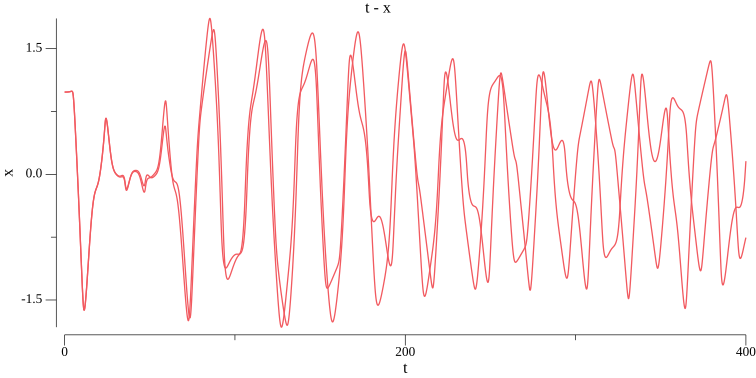
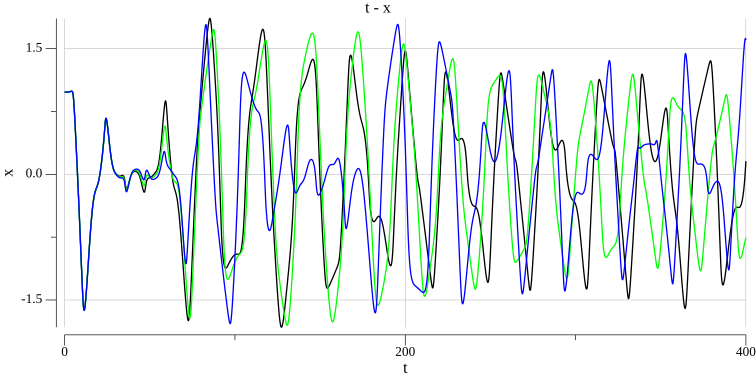
Updated eom.png, line.go and main.go.

diff --git a/main.go b/main.go
@@ -45,6 +45,7 @@ func main() {
 	if err != nil {
 		log.Fatalf("could not create line: %+v", err)
 	}
+	//line1.LineStyle.Width = vg.Points(1)
 	var points3 []data
 	for i := 0; i <= 4000; i++ {
 		if i == 0 {
@@ -66,10 +67,35 @@ func main() {
 		})
 	}
 	line2, err := plotter.NewLine(points4)
+	line2.LineStyle.Color = color.RGBA{R: 0, G: 255, B: 0, A: 255}
 	if err != nil {
 		log.Fatalf("could not create line: %+v", err)
 	}
-	line2.LineStyle.Color = color.RGBA{R: 0, G: 255, B: 0, A: 255}
+	var points5 []data
+	for i := 0; i <= 4000; i++ {
+		if i == 0 {
+			// as inital value for x we use x0
+			points5 = append(points5, data{y1: (th1 + 0.02) / math.Pi, y2: v1 / math.Pi, y3: th2 / math.Pi, y4: v2 / math.Pi})
+		} else {
+			deltat := 1 / 100.0
+			t := float64(i) / 10.0
+			d := angles(points5[i-1], t, deltat)
+			points5 = append(points5, d)
+		}
+	}
+	var points6 plotter.XYs
+	for i := 0; i <= 4000; i++ {
+		t := float64(i) / 10.0
+		points6 = append(points6, plotter.XY{
+			X: t,
+			Y: l1*math.Sin(points5[i].y1) + l2*math.Sin(points5[i].y3),
+		})
+	}
+	line3, err := plotter.NewLine(points6)
+	line3.LineStyle.Color = color.RGBA{R: 0, G: 0, B: 255, A: 255}
+	if err != nil {
+		log.Fatalf("could not create line: %+v", err)
+	}
 	b := bounds{
 		xmin: 0,
 		xmax: 5,
@@ -80,5 +106,5 @@ func main() {
 		x: "t",
 		y: "x",
 	}
-	CreateLineplotPlot("t - x", l, b, "eom.png", line1, line2)
+	CreateLineplotPlot("t - x", l, b, "eom.png", line1, line2, line3)
 }

diff --git a/line.go b/line.go
@@ -3,14 +3,10 @@ package main
 import (
 	"image/color"
 	"log"
-	"os"
 
 	"gonum.org/v1/plot"
 	"gonum.org/v1/plot/plotter"
-	"gonum.org/v1/plot/plotutil"
 	"gonum.org/v1/plot/vg"
-	"gonum.org/v1/plot/vg/draw"
-	"gonum.org/v1/plot/vg/vgimg"
 )
 
 func CreateLineplotPlot(title string, labels labels, bounds bounds, file string, lines ...*plotter.Line) {
@@ -20,33 +16,14 @@ func CreateLineplotPlot(title string, labels labels, bounds bounds, file string,
 	p.Y.Label.Text = labels.y
 	p.X.Min, p.X.Max, p.Y.Min, p.Y.Max = bounds.xmin, bounds.xmax, bounds.ymin, bounds.ymax
 	p.BackgroundColor = color.Transparent
+	p.Add(plotter.NewGrid())
 
 	for _, line := range lines {
-		err := plotutil.AddLines(p, line)
-		if err != nil {
-			log.Fatalf("could not create lineplot: %+v", err)
-		}
+		p.Add(line)
 	}
 
-	c := vgimg.PngCanvas{vgimg.NewWith(
-		vgimg.UseWH(10*vg.Centimeter, 5*vg.Centimeter),
-		vgimg.UseBackgroundColor(color.Transparent),
-	)}
-	p.Draw(draw.New(c))
-
-	f, err := os.Create(file)
+	err := p.Save(20*vg.Centimeter, 10*vg.Centimeter, file)
 	if err != nil {
-		log.Fatal(err)
-	}
-	defer f.Close()
-
-	_, err = c.WriteTo(f)
-	if err != nil {
-		log.Fatal(err)
-	}
-
-	err = f.Close()
-	if err != nil {
-		log.Fatal(err)
+		log.Fatalf("could not save lineplot: %+v", err)
 	}
 }
